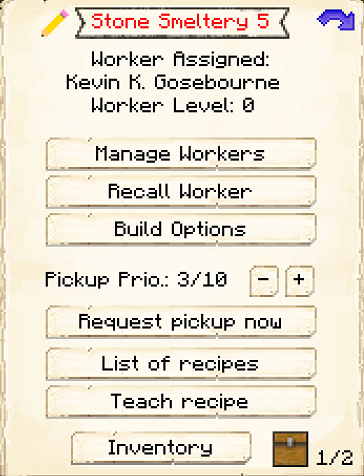
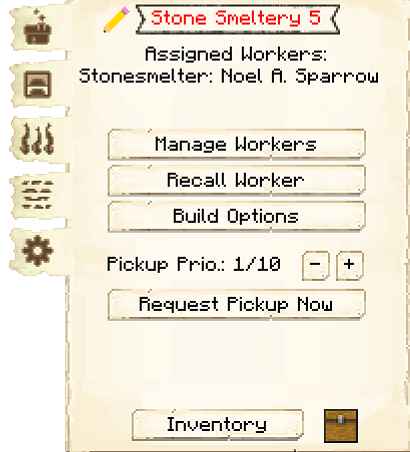
Stone Smeltery update (#807)
* Stone Smeltery update

* Recipe fixes

* Removing double spaces

diff --git a/pages/src/source/buildings/stonesmeltery.md b/pages/src/source/buildings/stonesmeltery.md
@@ -29,33 +29,16 @@ The Stone Smeltery is where the Stone Smelter will smelt cobblestone into stone,
 
 ## Stone Smeltery GUI
 
-When accessing the Stone Smeltery's hut block by right-clicking on it, you will see a GUI with different options:
-
-<br>
 <div class="row">
-  <div class="col-sm-12 col-md">
-    <img src="../../assets/images/gui/stonesmelterygui1.png" class="img-fluid mx-auto" alt="Stone Smeltery GUI">
-  </div>
-  <div class="col-sm-12 col-md">
-    <br>
-    <ul>
-      {% for item in site.data.gui.global %}
-        <li><strong>{{ item.button }}:</strong> {{ item.content }}</li>
-      {% endfor %}
-    </ul>
+  <div class="col">
+    {% include contentblock/main-gui.html header="When accessing the Stone Smeltery hut block by right-clicking on it, you will see a GUI with different options. You start on the main tab:" image="../../assets/images/gui/stonesmelterygui1.png" %}
+
+    {% include contentblock/basic.html header="The second tab of the GUI is <strong>Crafting Recipes</strong>." content="Here you can see all the crafting recipes this hut knows. The arrows allow you to move them up or down in priority. You are also able to disable specific recipes.<p><strong> Teach Recipe:</strong> When clicking teach recipe, it opens a crafting grid which allows you to teach this hut recipes (not the worker).</p>" image="../../assets/images/gui/stonesmelterygui2.png" %}
+
+    {% include contentblock/basic.html header="The third tab of the GUI is <strong>Fuel</strong>." content="Listed here are items that can be used by the Stone Smelter as fuel in their furnaces. Simply turn on any that you want your Stone Smelter to use, and a Courier will deliver those items to the Stone Smelter when they need fuel. All items are off by default. The black box at the top is to search for items." image="../../assets/images/gui/stonesmelterygui3.png" %}
+
+    {% include contentblock/basic.html header="The fourth tab of the GUI is <strong>Tasks</strong>." content="This tab shows you any requests the hut is working on, and where it is going." image="../../assets/images/gui/stonesmelterygui4.png" %}
+
+    {% include contentblock/settings-gui.html key="stonesmeltery" header="The fifth tab of the GUI is <strong>Settings</strong>." image="../../assets/images/gui/stonesmelterygui5.png" %}
   </div>
 </div>
-<br>
-<div class="row">
-  <div class="col-sm-12 col-md">
-    <img src="../../assets/images/gui/stonesmelterygui2.png" class="img-fluid mx-auto" alt="Smeltery GUI">
-  </div>
-  <div class="col-sm-12 col-md">
-    <ul>
-      <li><strong>Fuel: </strong>Listed here are items that can be used by the Stone Smelter as fuel in their furnaces. Turn on any that you want your Stone Smelter to use, and a Courier will deliver those items to the Stone Smelter when they need fuel. (The black box at the top is to search for items.)
-      </li>
-    </ul>
-  </div>
-</div>  
-  
-  <br>
